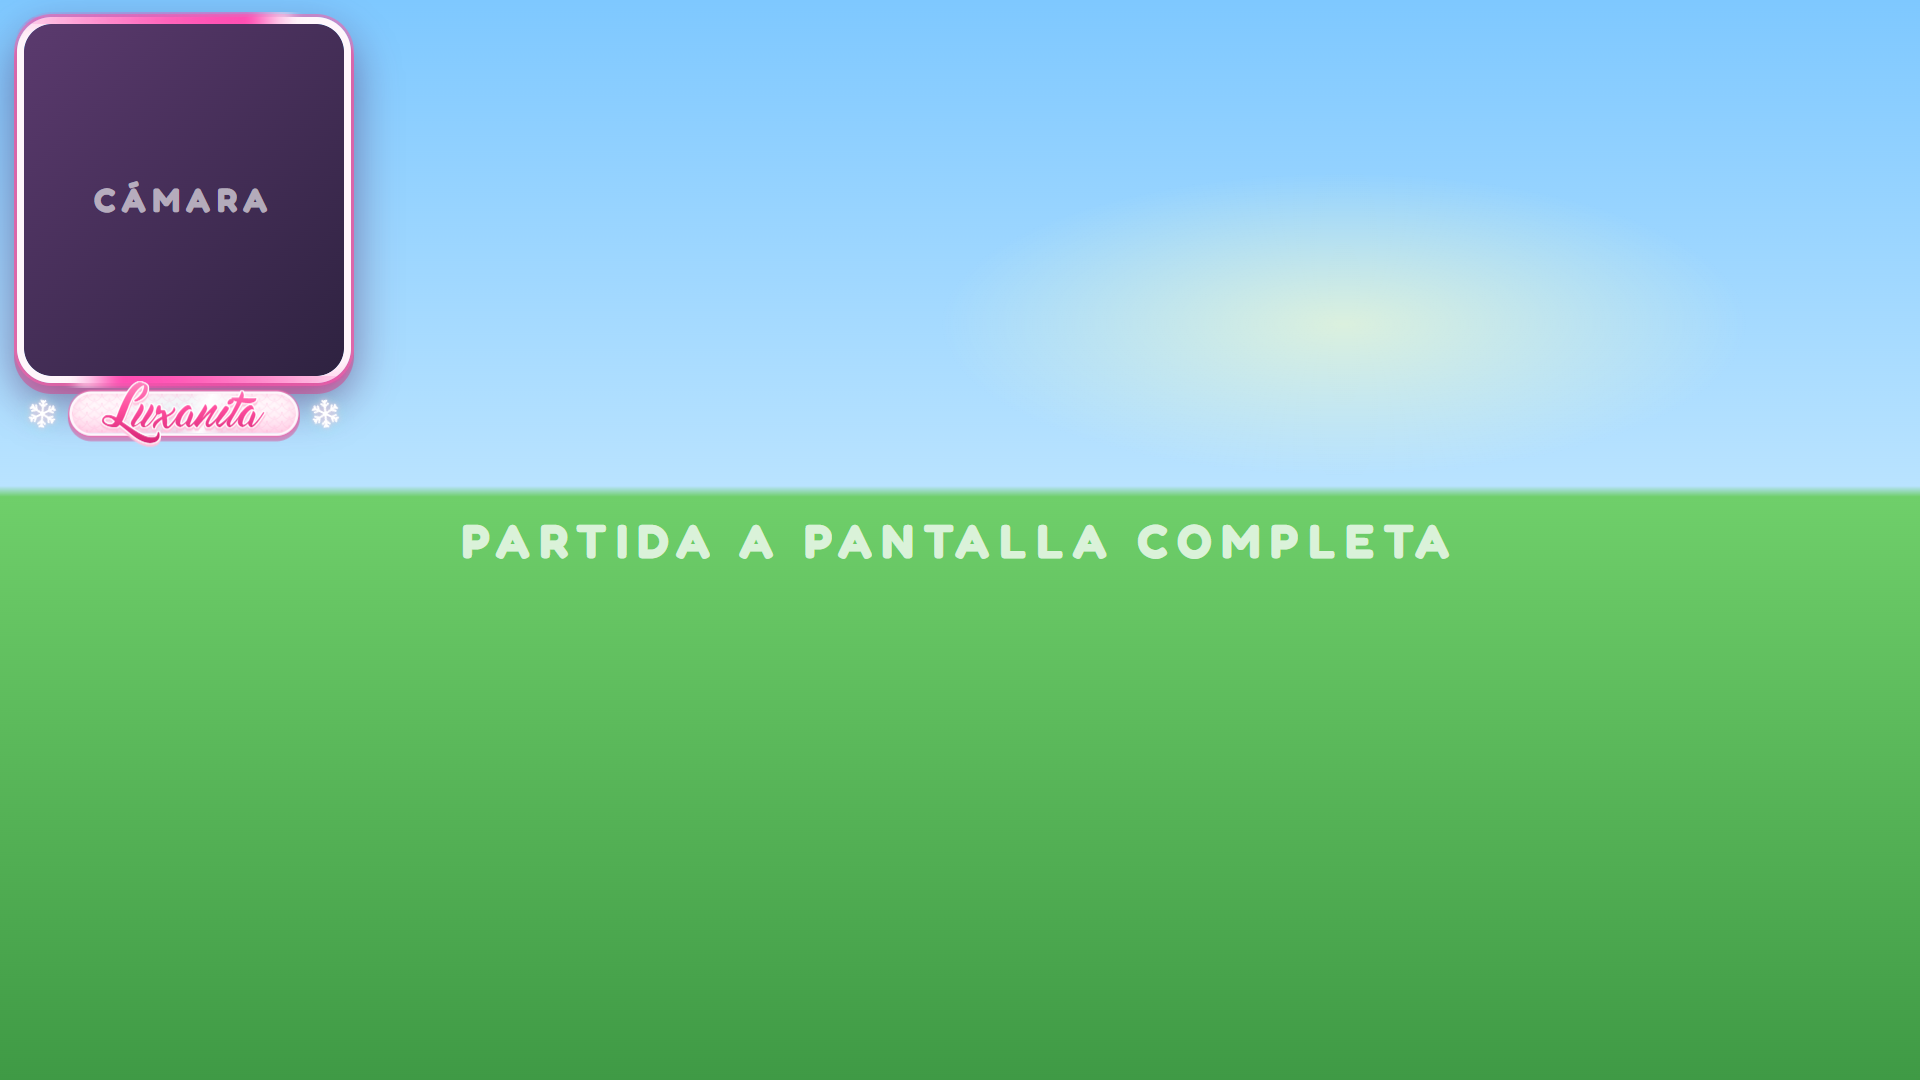
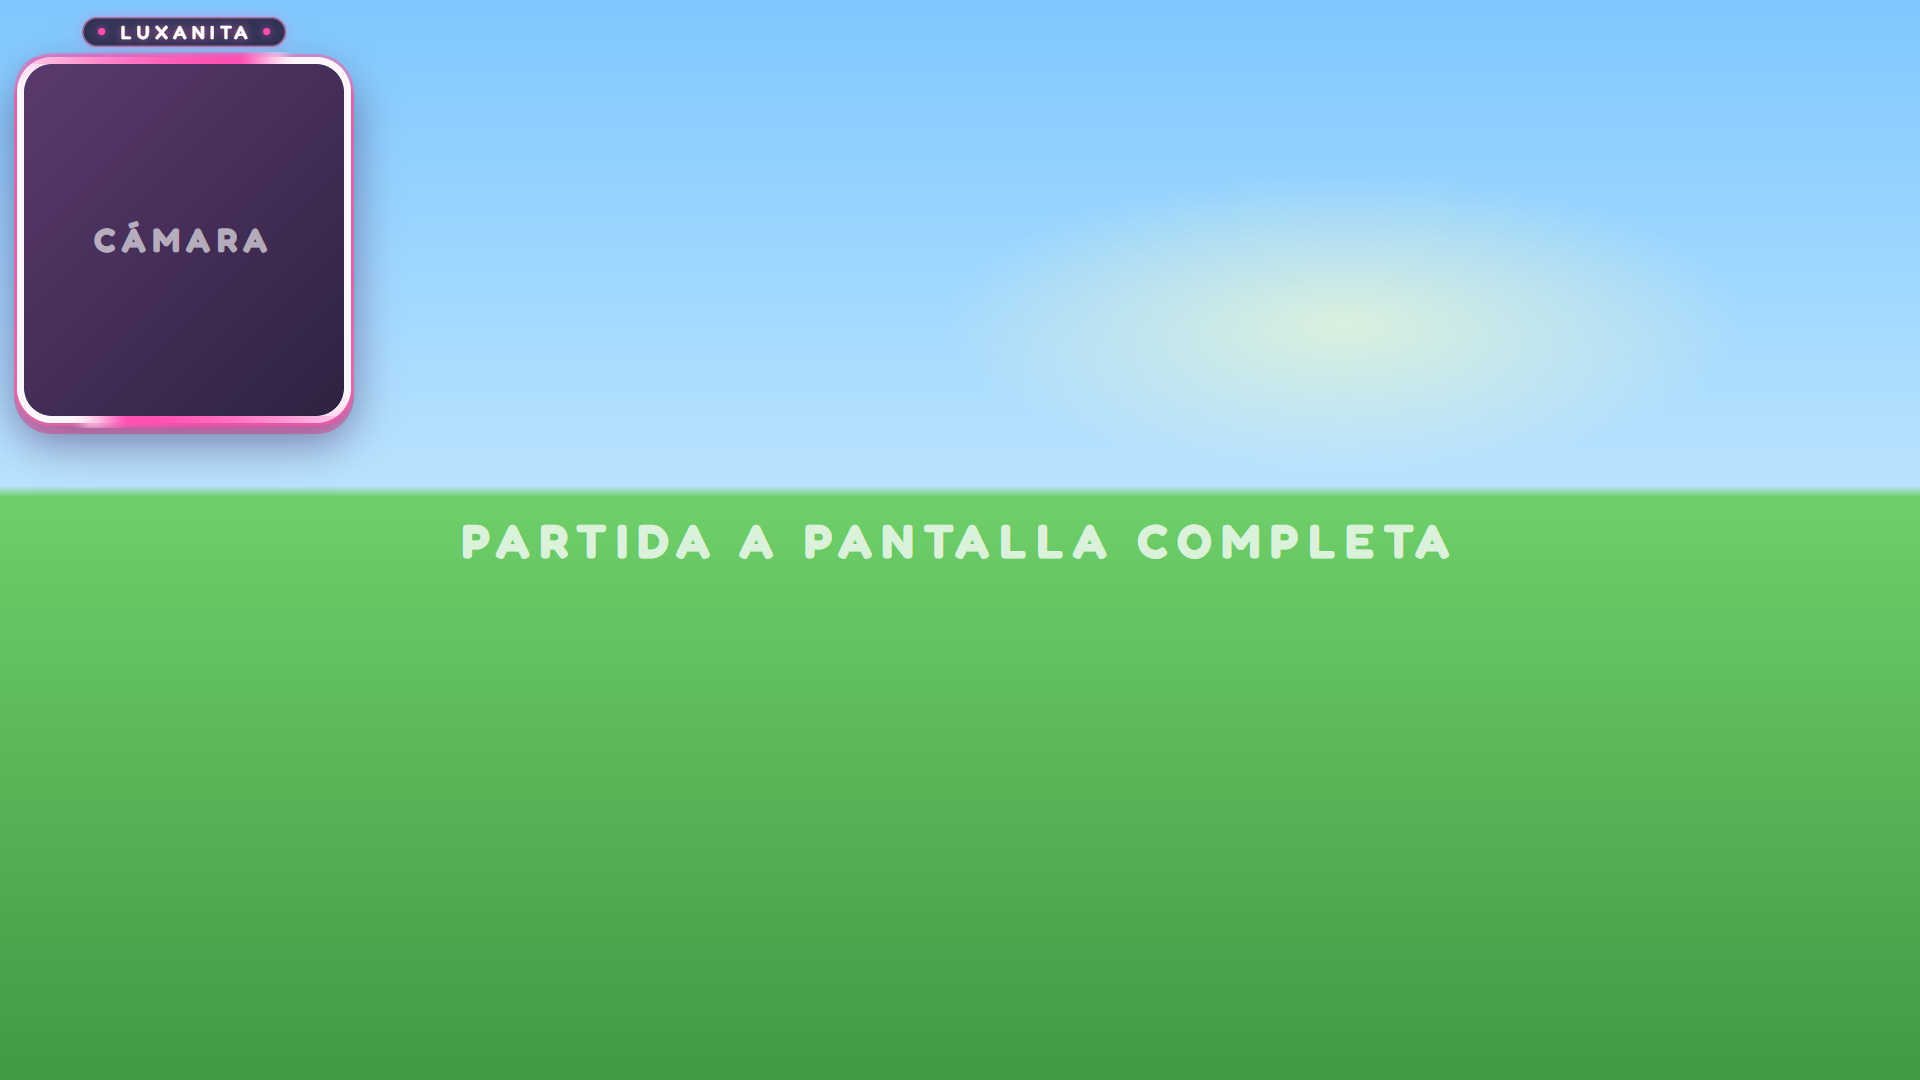
Overlay partida: nombre mínimo encima de la cámara

Changed region(s): [[0.0, 0.3361, 0.1875, 0.4278], [0.0, 0.0, 0.1875, 0.0917], [0.0312, 0.1528, 0.1562, 0.2444]]

diff --git a/overlay/comun.css b/overlay/comun.css
@@ -758,3 +758,29 @@ html.preview.sin-fondo #stage { background: repeating-conic-gradient(#d9d3e3 0 2
 }
 /* marco fino de neón alrededor de toda la pantalla */
 .pantalla-marco { position: absolute; }
+
+/* nombre mínimo encima de un marco (escena de partida) */
+.nombre-mini {
+  position: absolute;
+  transform: translateX(-50%);
+  display: flex;
+  align-items: center;
+  gap: 10px;
+  padding: 5px 16px 6px;
+  border-radius: 999px;
+  background: rgba(26,9,38,.78);
+  box-shadow: inset 0 0 0 1.5px rgba(255,150,205,.6), 0 0 14px rgba(255,79,179,.35);
+  color: #fff;
+  font: 600 19px/1 'Fredoka', sans-serif;
+  letter-spacing: .28em;
+  text-indent: .28em;          /* compensa el espaciado de la última letra */
+  white-space: nowrap;
+  text-shadow: 0 0 10px rgba(255,110,181,.8);
+}
+.nombre-mini i {
+  width: 7px;
+  height: 7px;
+  border-radius: 50%;
+  background: #ff4fb3;
+  box-shadow: 0 0 8px #ff4fb3;
+}

diff --git a/overlay/comun.js b/overlay/comun.js
@@ -177,6 +177,15 @@
         document.getElementById('demo-layer').appendChild(d);
       }
       marco(b, k * .5);
+      // nombre mínimo encima del marco (fuera del recorte, no tapa el hueco)
+      if (b.nombre) {
+        var nm = document.createElement('div');
+        nm.className = 'nombre-mini';
+        nm.innerHTML = '<i></i>' + b.nombre.toUpperCase() + '<i></i>';
+        nm.style.left = (b.x + b.w / 2) + 'px';
+        nm.style.top = (b.y - BORDER - 40) + 'px';
+        stage.appendChild(nm);
+      }
     });
     if (!conFondo && demo) {
       var full = document.createElement('div');

diff --git a/overlay/partida.html b/overlay/partida.html
@@ -18,9 +18,10 @@
   montarEscena({
     fondo: false,
     huecos: [
-      { tipo: 'cam', x: 24, y: 24, w: 320, h: 352 }   // cámara pequeña, un poco más alta que ancha
+      // cámara pequeña, un poco más alta que ancha, con el nombre en pequeño encima
+      { tipo: 'cam', x: 24, y: 64, w: 320, h: 352, nombre: 'Luxanita' }
     ],
-    titulo: { cx: 184, y: 396, escala: .5 }           // el nombre, pequeño, debajo de la cámara
+    titulo: false
   });
 </script>
 </body>
